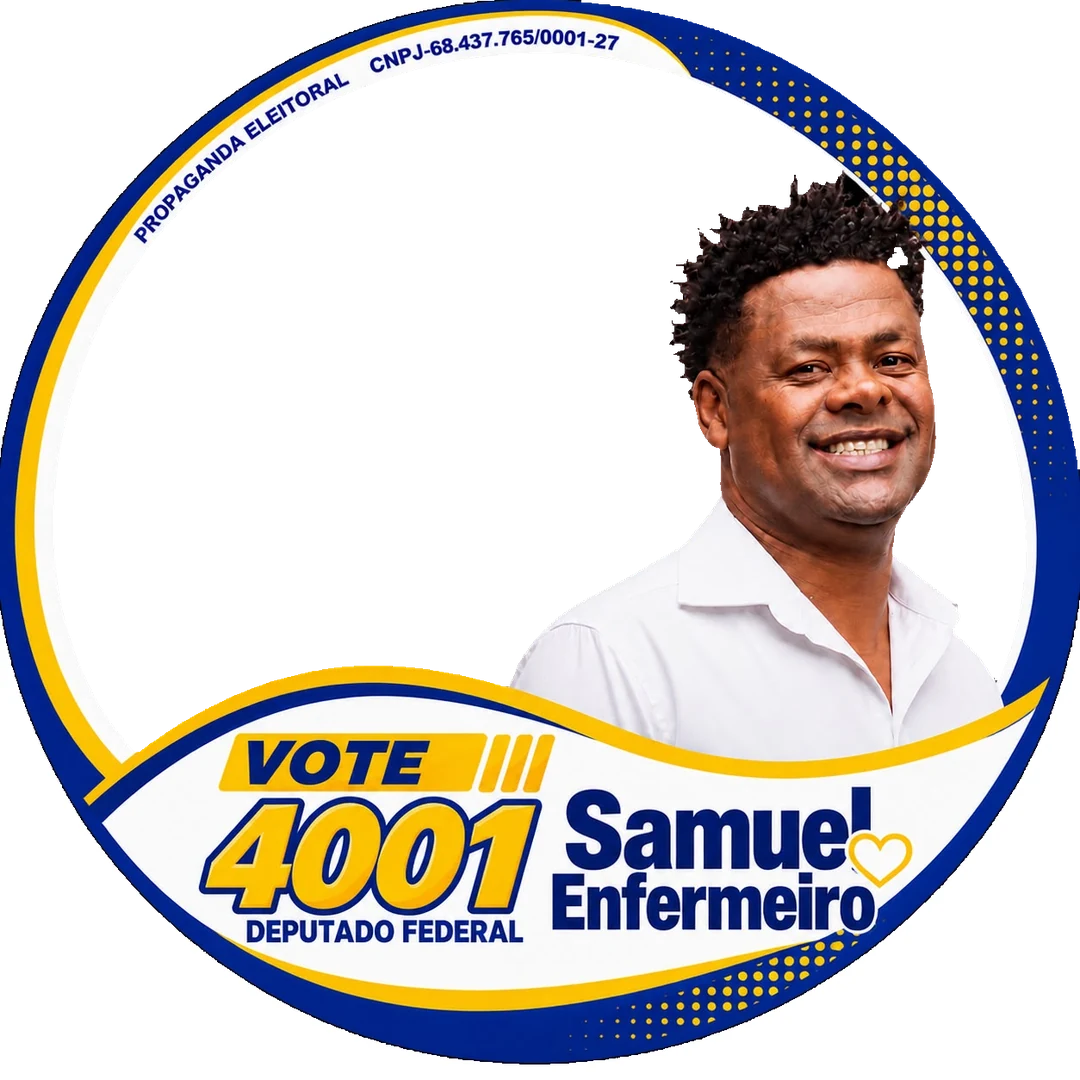
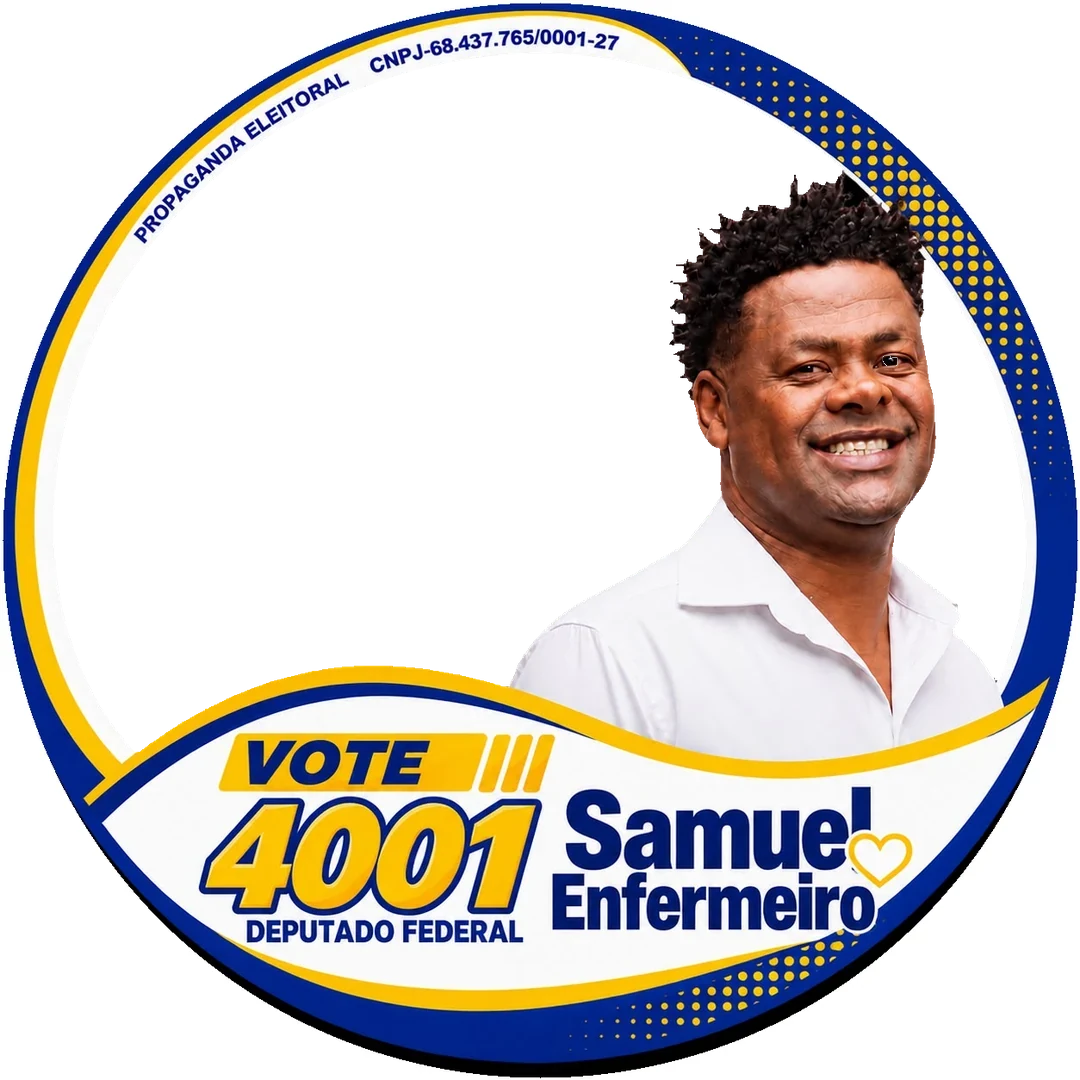
Auditoria das molduras e correção de dois defeitos que ela achou
Acrescenta ferramentas/auditor.py, que verifica cada arte publicada:
buraco conexo, ausência de furos no candidato, sobra de placeholder na
borda, franja clara e riqueza de tons na pele — este último detecta a
posterização que causava as manchas no rosto.

A auditoria encontrou dois defeitos na moldura 1:1 que eu não tinha visto:

Área transparente FORA do círculo, no canto superior direito. A foto da
pessoa vazaria para fora da moldura redonda. Causa: ao abrir a área atrás
do candidato, minhas sementes caíram fora do círculo. Agora o
preenchimento é limitado ao raio da arte e tudo fora dele é branco opaco.

Um furo de 111px no rosto dele. Componentes vazados com menos de 5000px
são sempre defeito e passam a ser devolvidos à arte.

Duas tentativas intermediárias foram descartadas pela própria auditoria:
varredura em grade abriu 7 áreas e 4 furos; sementes sem trava de tamanho
vazaram para o cabelo. A versão final usa sementes dirigidas com teto de
70000px, que rejeita o vazamento.

Resultado: as quatro molduras passam sem nenhum apontamento.

diff --git a/index.html b/index.html
@@ -373,7 +373,7 @@
   // Formatos 1:1 e 4:5. Todos trazem a arte oficial com o Samuel.
   var FORMATOS = [
     { id: "perfil", nome: "Foto de perfil", sub: "WhatsApp e Instagram",
-      W: 1080, H: 1080, cx: 567, cy: 376, rx: 513, ry: 376, focoX: 567,
+      W: 1080, H: 1080, cx: 540, cy: 402, rx: 486, ry: 349, focoX: 470,
       arquivo: "samuel-enfermeiro-perfil.png",
       src: "assets/molduras/perfil-1x1.webp" },
     { id: "post", nome: "Post do Instagram", sub: "formato 4:5",

diff --git a/ferramentas/auditor.py b/ferramentas/auditor.py
@@ -1,0 +1,185 @@
+"""Auditoria das molduras do aplicativo Samuel Enfermeiro.
+
+Verifica, em cada arte publicada:
+  1. Buraco unico e conexo (sem bolsoes de placeholder esquecidos)
+  2. Sem furos no corpo do candidato (transparencia onde deveria haver arte)
+  3. Sem sobra de placeholder encostada no buraco
+  4. Qualidade fotografica: banding/posterizacao na pele
+  5. Borda do buraco limpa (sem franja clara)
+"""
+import os, sys, math
+from collections import Counter
+from PIL import Image
+
+RAIZ = os.path.join(os.path.dirname(os.path.dirname(os.path.abspath(__file__))), "assets", "molduras")
+MOLDURAS = [
+    ("story-amarelo.webp", "Story amarela"),
+    ("story-azul.webp",    "Story azul"),
+    ("perfil-1x1.webp",    "Foto de perfil 1:1"),
+    ("post-45.webp",       "Post 4:5"),
+]
+
+def componentes(mask, W, H, minimo=200):
+    """Componentes conexos de uma mascara booleana (lista de bytes)."""
+    visto = bytearray(W * H)
+    achados = []
+    for sy in range(0, H, 2):
+        for sx in range(0, W, 2):
+            i = sy * W + sx
+            if not mask[i] or visto[i]:
+                continue
+            n = 0
+            pilha = [(sx, sy)]
+            caixa = [W, 0, H, 0]
+            while pilha:
+                x, y = pilha.pop()
+                j = y * W + x
+                if visto[j] or not mask[j]:
+                    continue
+                xi = x
+                while xi >= 0 and not visto[y*W+xi] and mask[y*W+xi]:
+                    xi -= 1
+                xi += 1
+                xf = x
+                while xf < W and not visto[y*W+xf] and mask[y*W+xf]:
+                    xf += 1
+                xf -= 1
+                for xx in range(xi, xf + 1):
+                    visto[y*W+xx] = 1
+                n += xf - xi + 1
+                caixa[0] = min(caixa[0], xi); caixa[1] = max(caixa[1], xf)
+                caixa[2] = min(caixa[2], y);  caixa[3] = max(caixa[3], y)
+                for ny in (y-1, y+1):
+                    if 0 <= ny < H:
+                        xx = xi
+                        while xx <= xf:
+                            if not visto[ny*W+xx] and mask[ny*W+xx]:
+                                pilha.append((xx, ny))
+                                while xx <= xf and mask[ny*W+xx]:
+                                    xx += 1
+                            xx += 1
+            if n >= minimo:
+                achados.append((n, tuple(caixa)))
+    achados.sort(reverse=True)
+    return achados
+
+def auditar(caminho, rotulo):
+    im = Image.open(caminho).convert("RGBA")
+    W, H = im.size
+    px = im.load()
+    total = W * H
+    achados = []
+
+    vazado = bytearray(total)
+    opaco  = bytearray(total)
+    for y in range(H):
+        base = y * W
+        for x in range(W):
+            a = px[x, y][3]
+            if a < 24:   vazado[base+x] = 1
+            elif a > 231: opaco[base+x] = 1
+
+    n_vaz = sum(vazado)
+
+    # 1) buraco unico
+    comps = componentes(vazado, W, H, minimo=400)
+    if not comps:
+        achados.append(("GRAVE", "nenhuma area vazada — a foto nao teria onde entrar"))
+    elif len(comps) > 1:
+        # o corpo do candidato pode dividir o buraco em duas partes legitimas.
+        # so acusa quando a area extra e pequena demais para caber uma foto.
+        pequenas = [c for c in comps[1:] if c[0] < 8000]
+        if pequenas:
+            achados.append(("ATENCAO",
+                "%d area(s) vazada(s) pequenas demais (%d px) — provavel furo na arte"
+                % (len(pequenas), sum(c[0] for c in pequenas))))
+
+    # 2) furos dentro da arte: vazado pequeno e isolado
+    soltos = [c for c in comps[1:] if c[0] < n_vaz * 0.02]
+    if soltos:
+        achados.append(("ATENCAO", "%d furos pequenos na arte (possivel recorte comendo o candidato)" % len(soltos)))
+
+    # 3) sobra de placeholder: pixels opacos quase-neutros colados no buraco
+    sobra = 0
+    for y in range(1, H-1):
+        for x in range(1, W-1):
+            i = y*W+x
+            if not opaco[i]:
+                continue
+            if not (vazado[i-1] or vazado[i+1] or vazado[i-W] or vazado[i+W]):
+                continue
+            r, g, b, _ = px[x, y]
+            neutro = abs(r-g) < 12 and abs(g-b) < 12
+            if neutro and (r < 30 or 195 < r < 245):
+                sobra += 1
+    if sobra > 400:
+        achados.append(("ATENCAO", "%d px de placeholder encostados na borda do buraco" % sobra))
+
+    # 4) qualidade fotografica: cores unicas na area do candidato
+    cores = Counter()
+    amostra = 0
+    for y in range(0, H, 2):
+        for x in range(0, W, 2):
+            i = y*W+x
+            if not opaco[i]:
+                continue
+            r, g, b, _ = px[x, y]
+            # tons de pele/cabelo: fora do azul e do amarelo da marca
+            if 25 < r < 235 and abs(r-g) > 8 and r > b:
+                cores[(r//2, g//2, b//2)] += 1
+                amostra += 1
+    unicas = len(cores)
+    if amostra > 3000 and unicas < 900:
+        achados.append(("ATENCAO",
+            "poucas cores na pele (%d tons em %d px) — sinal de manchas/posterizacao" % (unicas, amostra)))
+
+    # 5) franja clara na borda do buraco
+    franja = 0
+    for y in range(1, H-1):
+        for x in range(1, W-1):
+            i = y*W+x
+            if not opaco[i]:
+                continue
+            if not (vazado[i-1] or vazado[i+1] or vazado[i-W] or vazado[i+W]):
+                continue
+            r, g, b, _ = px[x, y]
+            if r > 238 and g > 238 and b > 238:
+                franja += 1
+    if franja > 900:
+        achados.append(("ATENCAO", "%d px quase brancos na borda do buraco (possivel franja)" % franja))
+
+    return {
+        "rotulo": rotulo,
+        "dim": "%dx%d" % (W, H),
+        "kb": os.path.getsize(caminho)//1024,
+        "vazado_pct": 100.0*n_vaz/total,
+        "areas_vazadas": len(comps),
+        "tons_pele": unicas,
+        "sobra_borda": sobra,
+        "franja": franja,
+        "achados": achados,
+    }
+
+print("=" * 74)
+print("AUDITORIA DAS MOLDURAS")
+print("=" * 74)
+problemas = 0
+for arq, rotulo in MOLDURAS:
+    caminho = os.path.join(RAIZ, arq)
+    if not os.path.exists(caminho):
+        print("\n%-22s AUSENTE" % rotulo); problemas += 1; continue
+    r = auditar(caminho, rotulo)
+    print("\n%s  (%s, %d KB)" % (r["rotulo"], r["dim"], r["kb"]))
+    print("   buraco ocupa %.1f%% da arte, em %d area(s)" % (r["vazado_pct"], r["areas_vazadas"]))
+    print("   tons distintos na pele: %d" % r["tons_pele"])
+    print("   placeholder na borda: %d px | franja clara: %d px" % (r["sobra_borda"], r["franja"]))
+    if not r["achados"]:
+        print("   -> SEM PROBLEMAS")
+    for nivel, msg in r["achados"]:
+        print("   -> %s: %s" % (nivel, msg))
+        problemas += 1
+
+print("\n" + "=" * 74)
+print("RESULTADO: %s" % ("nenhum problema encontrado" if problemas == 0
+                         else "%d ponto(s) para revisar" % problemas))
+print("=" * 74)
